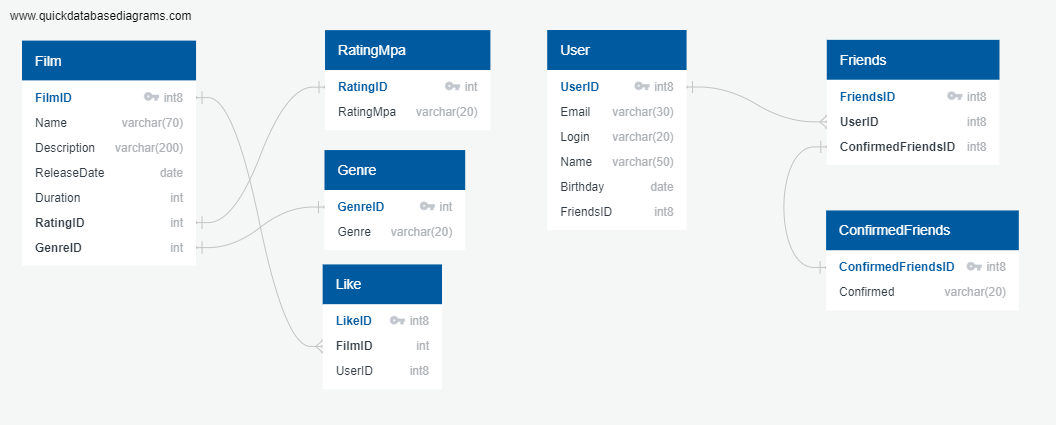
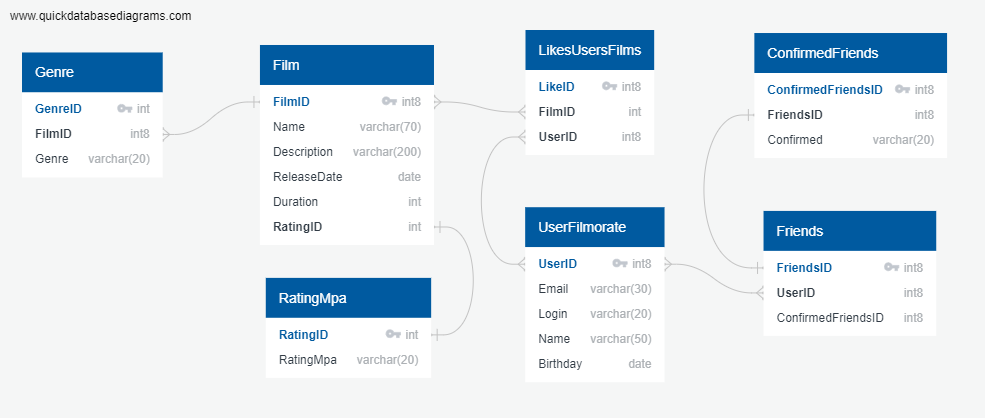
Спринт 10. Попытка 2

diff --git a/README.md b/README.md
@@ -1,17 +1,17 @@
 # java-filmorate
 Template repository for Filmorate project.
 
-QuickDBD-Sprint 10.png
+![Database schema](QuickDBD-Sprint 10.png)
 
 SELECT *
 FROM film AS f
-INNER JOIN ratingmpa AS r ON f.ratingid = r.ratingid
-INNER JOIN genre AS g ON f.genre = g.genre
-INNER JOIN like AS l ON f.filmid = l.filmid
+JOIN ratingmpa AS r ON f.ratingid = r.ratingid
+JOIN genre AS g ON f.filmid = g.filmid
+JOIN likesusersfilms AS l ON f.filmid = l.filmid
 GROUP BY f.filmid;
 
 SELECT *
-FROM user AS u
-INNER JOIN friends AS f ON u.userid = f.userid
-INNER JOIN confirmedfriends AS c ON f.confirmedfriendsid = c.confirmedfriendsid
+FROM userfilmorate AS u
+JOIN friends AS f ON u.userid = f.userid
+JOIN confirmedfriends AS c ON f.friendsid = c.friendsid
 GROUP BY u.userid;
